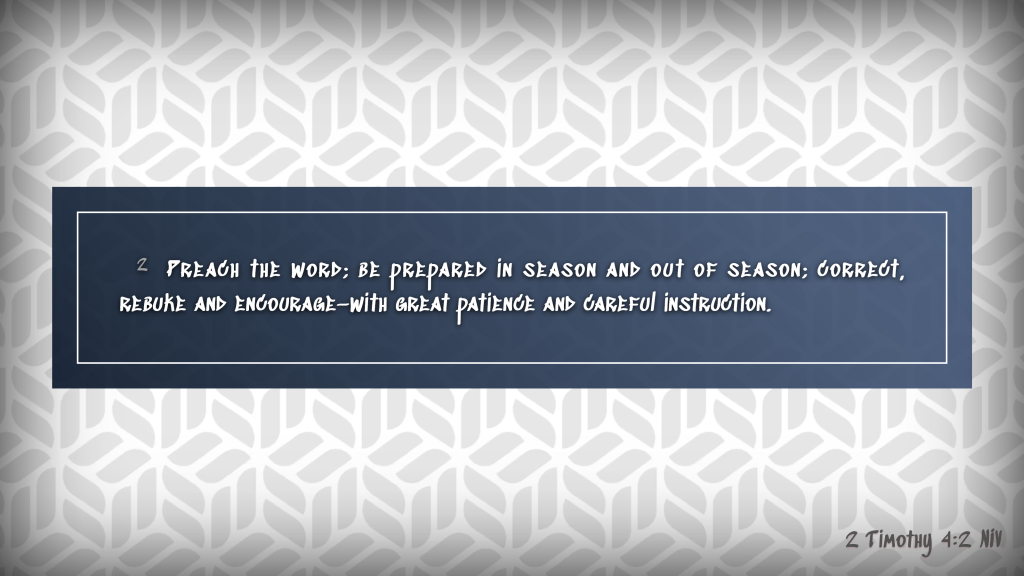
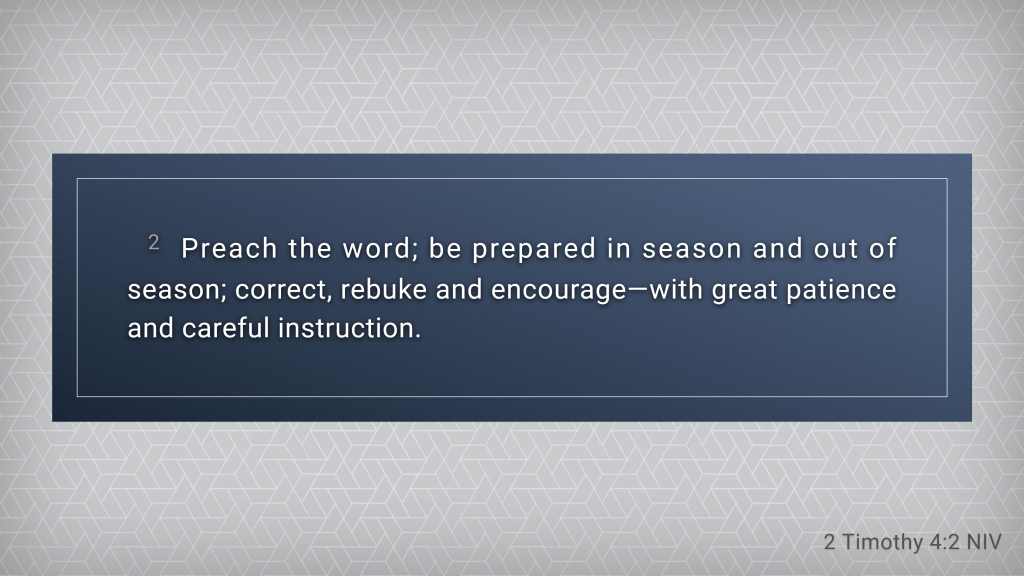
Added sparkles, update of gray-pattern + update, naming fixes

diff --git a/backgrounds/sparkles.js b/backgrounds/sparkles.js
@@ -1,0 +1,152 @@
+/*
+* File Name / glitteringSea.js
+* Created Date / Aug 14, 2020
+* Aurhor / Toshiya Marukubo
+* Twitter / https://twitter.com/toshiyamarukubo
+*/
+
+(function () {
+  'use strict';
+  window.addEventListener('load', function () {
+    var canvas = document.getElementById('canvas');
+
+    if (!canvas || !canvas.getContext) {
+      return false;
+    }
+
+    /********************
+      Random Number
+    ********************/
+
+    function rand(min, max) {
+      return Math.floor(Math.random() * (max - min + 1) + min);
+    }
+    
+    /********************
+      Var
+    ********************/
+
+    var ctx = canvas.getContext('2d');
+    var X = canvas.width = window.innerWidth;
+    var Y = canvas.height = window.innerHeight;
+    var mouseX = null;
+    var mouseY = null;
+    var shapeNum = 300;
+    var shapes = [];
+    var minSize = 10;
+    var maxSize = 25;
+    var fillStyleColor = 'white';
+    var fadeOutSpeed = 100; // 25
+    var style = {
+      black: 'black',
+      white: 'white',
+      lineWidth: 4,
+    };
+
+    /********************
+      Animation
+    ********************/
+
+    window.requestAnimationFrame =
+      window.requestAnimationFrame ||
+      window.mozRequestAnimationFrame ||
+      window.webkitRequestAnimationFrame ||
+      window.msRequestAnimationFrame ||
+      function(cb) {
+        setTimeout(cb, 17);
+      };
+
+    /********************
+      Shape
+    ********************/
+     
+    function Shape(ctx, x, y) {
+      this.ctx = ctx;
+      this.init(x, y);
+    }
+    
+    Shape.prototype.init = function(x, y) {
+      this.x = x;
+      this.y = y;
+      this.r = rand(minSize, maxSize);
+      this.ga = Math.random() * Math.random() * Math.random() * Math.random();
+      this.v = {
+        x: Math.random(),
+        y: -1
+      };
+      this.l = rand(0, fadeOutSpeed);
+      this.sl = this.l;
+    };
+
+    Shape.prototype.updateParams = function() {
+      var ratio = this.l / this.sl;
+      //this.r *= ratio;
+      this.l -= 1;
+      if (this.l < 0) {
+        this.init(X * (Math.random() + Math.random()) / 2, rand(0, Y));
+      }
+    };
+
+    Shape.prototype.updatePosition = function() {
+      this.x += rand(0, 2) - 1;//Math.random();
+      this.y += rand(0, 5)/5.0;
+    };
+    
+    Shape.prototype.draw = function() {
+      var ctx  = this.ctx;
+      ctx.save();
+      ctx.globalCompositeOperation = 'lighter';
+      ctx.globalAlpha = this.ga;
+      //ctx.fillStyle = 'rgb(123, 252, 100)';
+      ctx.fillStyle = fillStyleColor;
+      ctx.beginPath();
+      ctx.arc(this.x, this.y, this.r, 0, Math.PI * 2, false);
+      ctx.fill();
+      ctx.restore();
+    };
+
+    Shape.prototype.render = function(i) {
+      this.updatePosition();
+      this.updateParams();
+      this.draw();
+    };
+
+    for (var i = 0; i < shapeNum; i++) {
+      var s = new Shape(ctx, X * (Math.random() + Math.random()) / 2, rand(0, Y));
+      shapes.push(s);
+    }
+
+    /********************
+      Render
+    ********************/
+    
+    function render() {
+      ctx.clearRect(0, 0, X, Y);
+      for (var i = 0; i < shapes.length; i++) {
+        shapes[i].render(i);
+      }
+      requestAnimationFrame(render);
+    }
+
+    render();
+
+    /********************
+      Event
+    ********************/
+    
+    function onResize() {
+      X = canvas.width = window.innerWidth;
+      Y = canvas.height = window.innerHeight;
+    }
+
+    window.addEventListener('resize', function() {
+      onResize();
+    });
+
+    window.addEventListener('mousemove', function(e) {
+      mouseX = e.clientX;
+      mouseY = e.clientY;
+    }, false);
+
+  });
+})();

diff --git a/backgrounds/gray-pattern.css b/backgrounds/gray-pattern.css
@@ -9,26 +9,32 @@
 }
 */
 
-@import url(https://fonts.googleapis.com/css?family=Sedgwick+Ave+Display:ital,wght@0,900;1,400);
+#@import url(https://fonts.googleapis.com/css?family=Sedgwick+Ave+Display:ital,wght@0,900;1,400);
+#@import url(https://fonts.googleapis.com/css2?family=Roboto:wght@100&display=swap);
+@import url(https://fonts.googleapis.com/css2?family=Roboto:wght@300&display=swap);
+
+
 
 #source, #verse, #announcement {
-	font-family: 'Sedgwick Ave Display' !important;
+	font-family: 'Roboto' !important;
+	font-style: normal;
+    font-weight: 300;
+	#font-family: 'Sedgwick Ave Display' !important;
 }
 
-.frame {
-  
+.frame {  
   #max-width: 90%; 
   background: rgb(69,89,122);
-  background: linear-gradient(230deg, rgba(69,89,122,0.94) 0%, rgba(62,81,112,0.921988863904937) 21%, rgba(11,24,42,0.92) 100%);
+  background: linear-gradient(200deg, rgba(69,89,122,0.94) 0%, rgba(62,81,112,0.921988863904937) 21%, rgba(11,24,42,0.92) 100%);
   word-wrap: break-word;
   #position: relative;
   padding: 0.8em;
 }
 
 .frame .inframe {
-	font-size: 75%;
+	font-size: 90%;
 	padding: 1.8em;
-	border: 0.08em solid white;
+	border: 0.03em solid white;
 }
 
 #source {

diff --git a/backgrounds/gray-pattern-inner.css b/backgrounds/gray-pattern-inner.css
@@ -3,7 +3,9 @@ body {
 	padding:0;
 	#font-family:"arial",heletica,sans-serif;
 	#font-size:12px;
-    background: #2980b9 url('gray-pattern-bg.avif') repeat 0 0;
+    background: #ff80b9 url('gray-pattern-bg.avif') repeat 0 0;
+	background-color: rgba(62,81,112,0.1);
+    background-blend-mode: multiply;
 	-webkit-animation: 50s linear 0s normal none infinite animate;
 	-moz-animation: 100s linear 0s normal none infinite animate;
 	-ms-animation: 100s linear 0s normal none infinite animate;
@@ -18,7 +20,7 @@ body {
   left: 0;
   width: 100%;
   height: 100%;
-  box-shadow: 0 0 200px rgba(0,0,0,0.9) inset;
+  box-shadow: 0 0 150px rgba(0,0,0,0.3) inset;
 }
  
 @-webkit-keyframes animate {

diff --git a/backgrounds/sparkles.html b/backgrounds/sparkles.html
@@ -1,0 +1,13 @@
+<!DOCTYPE html>
+<html>
+	<head>
+		<title>Background</title>
+		<meta charset="utf-8"/>
+		<link rel="stylesheet" href="sparkles-inner.css"/>
+	</head>
+	<body>
+		<canvas id="canvas">Canvas not supported.</canvas>
+		<script type="text/javascript" src="sparkles.js"></script>
+	</body>
+</html>
+

diff --git a/backgrounds/sparkles.css b/backgrounds/sparkles.css
@@ -1,0 +1,8 @@
+@import url(https://fonts.googleapis.com/css2?family=Roboto:wght@300&display=swap);
+
+#source, #verse, #announcement {
+	font-family: 'Roboto' !important;
+	font-style: normal;
+    font-weight: 300;
+	#font-family: 'Sedgwick Ave Display' !important;
+}

diff --git a/backgrounds/sparkles-inner.css b/backgrounds/sparkles-inner.css
@@ -1,0 +1,16 @@
+* {
+  margin: 0;
+  padding: 0;
+  color: #FFF;
+  overflow: hidden;
+}
+
+body {
+  position: relative;
+  background: #00222B;
+  filter: blur(15px);
+}
+
+canvas#canvas {
+  display: block;
+}
